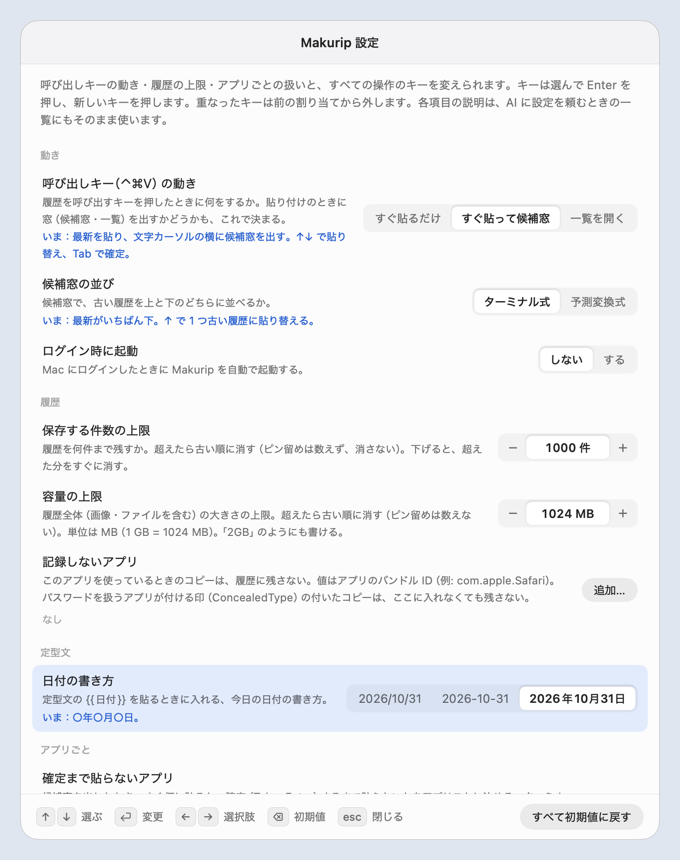
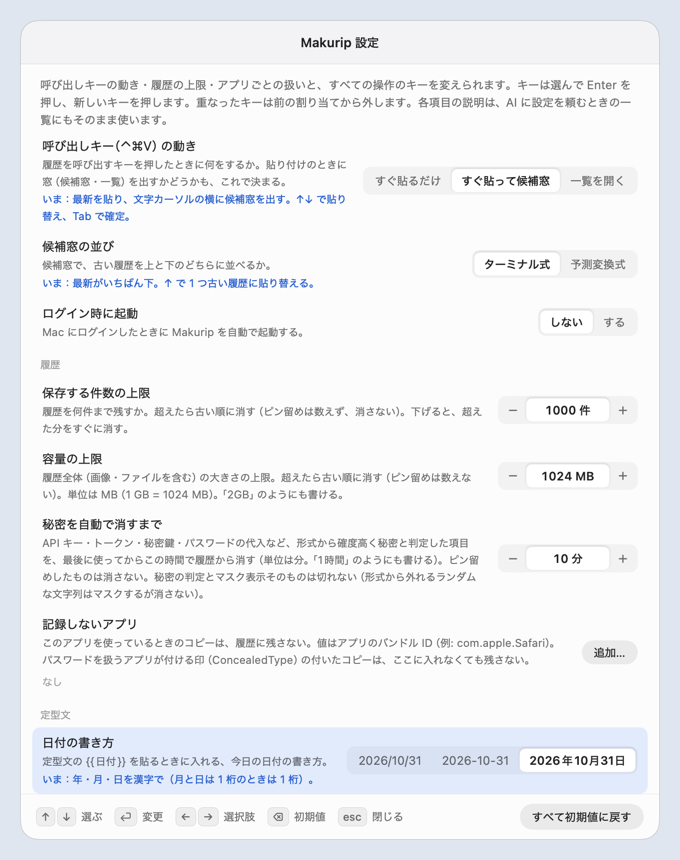
[ドキュメント] キーの項目の数を #5 の reveal を含めて直し、設定画面の見比べを撮り直す (#7)
Claude-Session: https://claude.ai/code/session_01LrpCdrAhJtmzJp2qiwdFor

diff --git a/docs/ai-settings.md b/docs/ai-settings.md
@@ -156,7 +156,7 @@ $ Makurip --settings add candPasteTiming Slack=onCommit
 | `candIdleTimeout` | 候補窓を自動で閉じるまで（詳細） | 数 2〜120（秒） | 10 |
 | `candReplaceMethod` | 差し替え方式の決め打ち（詳細・画面には出さない） | バンドル ID → `selectRange` / `undo` / `deferred` | なし |
 | `snippetDateFormat` | 日付の書き方（定型文の `{{日付}}`） | `slash`（2026/10/31）/ `hyphen`（2026-10-31）/ `japanese`（2026年10月31日） | `slash` |
-| `keys.<操作 ID>` | 各操作のキー（26 個。定型文の `keys.snippets`・`keys.editSnippet` を含む） | キーの並び | 試作どおり |
+| `keys.<操作 ID>` | 各操作のキー（27 個。秘密の `keys.reveal`、定型文の `keys.snippets`・`keys.editSnippet` を含む） | キーの並び | 試作どおり |
 
 設定にしないもの: パスワード等の印（ConcealedType）が付いたコピーを保存しない動き（プライバシーを守る振る舞いは、
 AI や他のアプリが設定ファイルを書き換えても弱められないようにしてある）・監視の間隔などの内部の定数。
